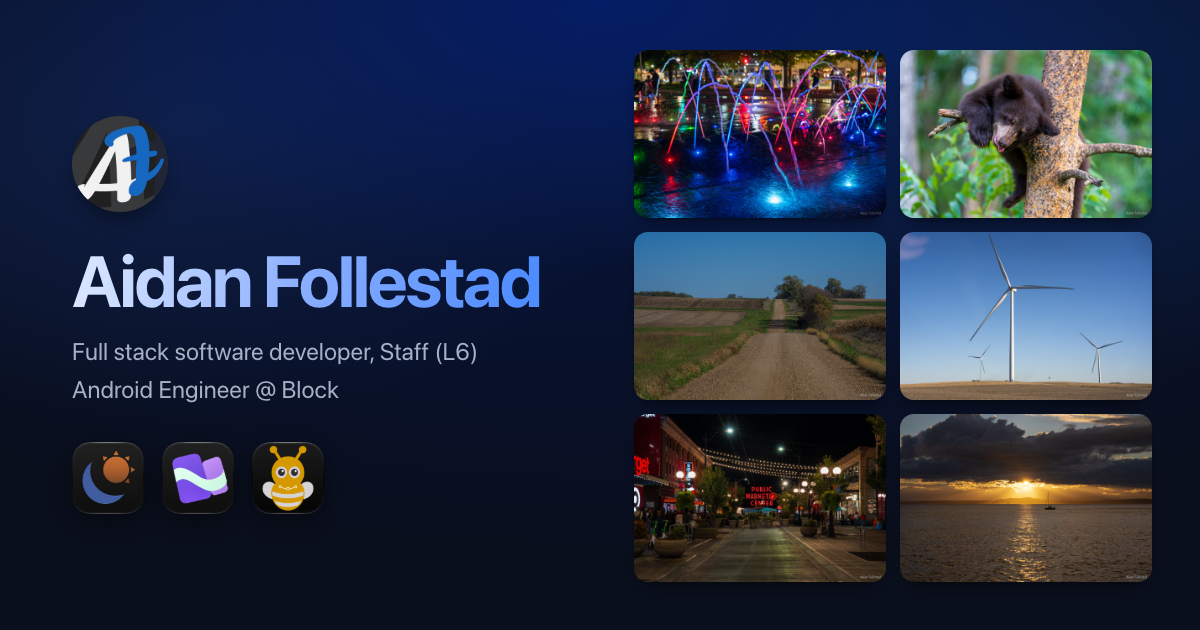
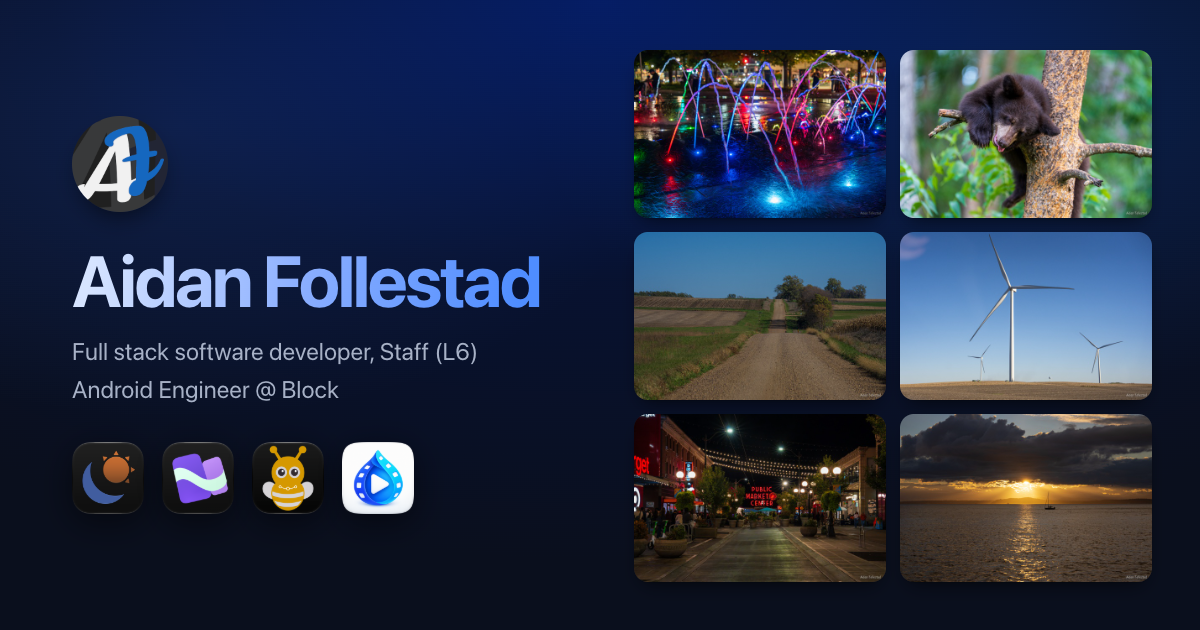
Add GifDrop to the Apps section
`.app-grid` is now four across above 1100px and two by two down to 960px, since three columns would leave the fourth card alone. Re-renders `images/og-image.png` with the new icon.

Changed region(s): [[0.2775, 0.6937, 0.37, 0.8143]]

diff --git a/index.html b/index.html
@@ -25,12 +25,12 @@
     <meta property="og:image:type" content="image/png">
     <meta property="og:image:width" content="1200">
     <meta property="og:image:height" content="630">
-    <meta property="og:image:alt" content="The af.codes logo with Aidan Follestad's name and title, the Chromahora, Carouline and Alveary app icons, and a grid of recent photos.">
+    <meta property="og:image:alt" content="The af.codes logo with Aidan Follestad's name and title, the Chromahora, Carouline, Alveary and GifDrop app icons, and a grid of recent photos.">
     <!-- Twitter falls back to og:image on its own, but it never reads
          og:image:alt, so the image is repeated here to give its alt an anchor. -->
     <meta name="twitter:card" content="summary_large_image">
     <meta name="twitter:image" content="https://af.codes/images/og-image.png">
-    <meta name="twitter:image:alt" content="The af.codes logo with Aidan Follestad's name and title, the Chromahora, Carouline and Alveary app icons, and a grid of recent photos.">
+    <meta name="twitter:image:alt" content="The af.codes logo with Aidan Follestad's name and title, the Chromahora, Carouline, Alveary and GifDrop app icons, and a grid of recent photos.">
 
     <link rel="stylesheet" href="styles/index-common.css">
 
@@ -302,6 +302,20 @@
                     <p>
                         Run Claude Code, Codex and OpenCode side by side, with an embedded terminal and deep Git
                         integration.
+                    </p>
+                </a>
+                <a class="app-card" href="https://gifdrop.af.codes" target="_blank">
+                    <picture>
+                        <source srcset="images/apps/gifdrop-dark.png" data-theme="dark"
+                            media="(prefers-color-scheme: dark)">
+                        <img class="app-icon" src="images/apps/gifdrop-light.png" alt=""
+                            width="256" height="256" loading="lazy" decoding="async" />
+                    </picture>
+                    <h3>GifDrop</h3>
+                    <div class="app-platforms">Web</div>
+                    <p>
+                        Drop in a video, get a GIF: trim, crop and tune it all in your browser, without uploading
+                        a thing.
                     </p>
                 </a>
             </div>

diff --git a/styles/index-common.css b/styles/index-common.css
@@ -432,11 +432,11 @@ button:focus-visible {
 
 /* Apps ------------------------------------------------------------------- */
 
-/* Three columns above 960px. Keep the descriptions about the same length so
+/* Four columns above 1100px. Keep the descriptions about the same length so
    they wrap to the same line count side by side. */
 .app-grid {
     display: grid;
-    grid-template-columns: repeat(3, 1fr);
+    grid-template-columns: repeat(4, 1fr);
     gap: 1.25rem;
 }
 
@@ -612,6 +612,14 @@ button:focus-visible {
 }
 
 /* Responsive ------------------------------------------------------------- */
+
+/* Four across gets too narrow for the descriptions here, and two by two still keeps the
+   cards even, which a row of three plus one wouldn't. */
+@media (max-width: 1100px) {
+    .app-grid {
+        grid-template-columns: repeat(2, 1fr);
+    }
+}
 
 @media (max-width: 960px) {
     .app-grid {

diff --git a/AGENTS.md b/AGENTS.md
@@ -65,13 +65,15 @@ The "Apps" section (`#apps`) showcases the apps, above "Recent shots". Each app 
 `<a class="app-card">` in `.app-grid`, linking to its `<app>.af.codes` subdomain, that lifts on hover and keyboard
 focus.
 
-Keep the descriptions about the same length (~100 characters). The grid is three columns above 960px and stacks
-at or below it, which keeps the three-column text width in a narrow band, and `text-wrap: pretty` fills each
-paragraph to the same measure, so equal-length copy wraps to the same line count side by side.
+Keep the descriptions about the same length (~100 characters). The grid is four columns above 1100px, two by two
+down to 960px, and stacks at or below it, and `text-wrap: pretty` fills each paragraph to the same measure, so
+equal-length copy wraps to the same line count side by side.
 
 Each app's icons are copied from its site's `gh-pages` branch (`images/app-icon-light.png` /
 `images/app-icon-dark.png`) into `images/apps/<app>-light.png` / `<app>-dark.png`; re-copy them when an app's
-icon changes.
+icon changes. GifDrop publishes from `main` and has one icon, `images/app-icon.png`, so both of its files come
+from that, cropped by 11px on each side and scaled back to 256x256, since its plate stops short of the edges and
+the others' don't.
 
 Each icon is a `<picture>` whose dark `<source>` carries `data-theme="dark"` and a
 `(prefers-color-scheme: dark)` media query, with the light image as the `<img>` fallback. `dark-mode.js`
